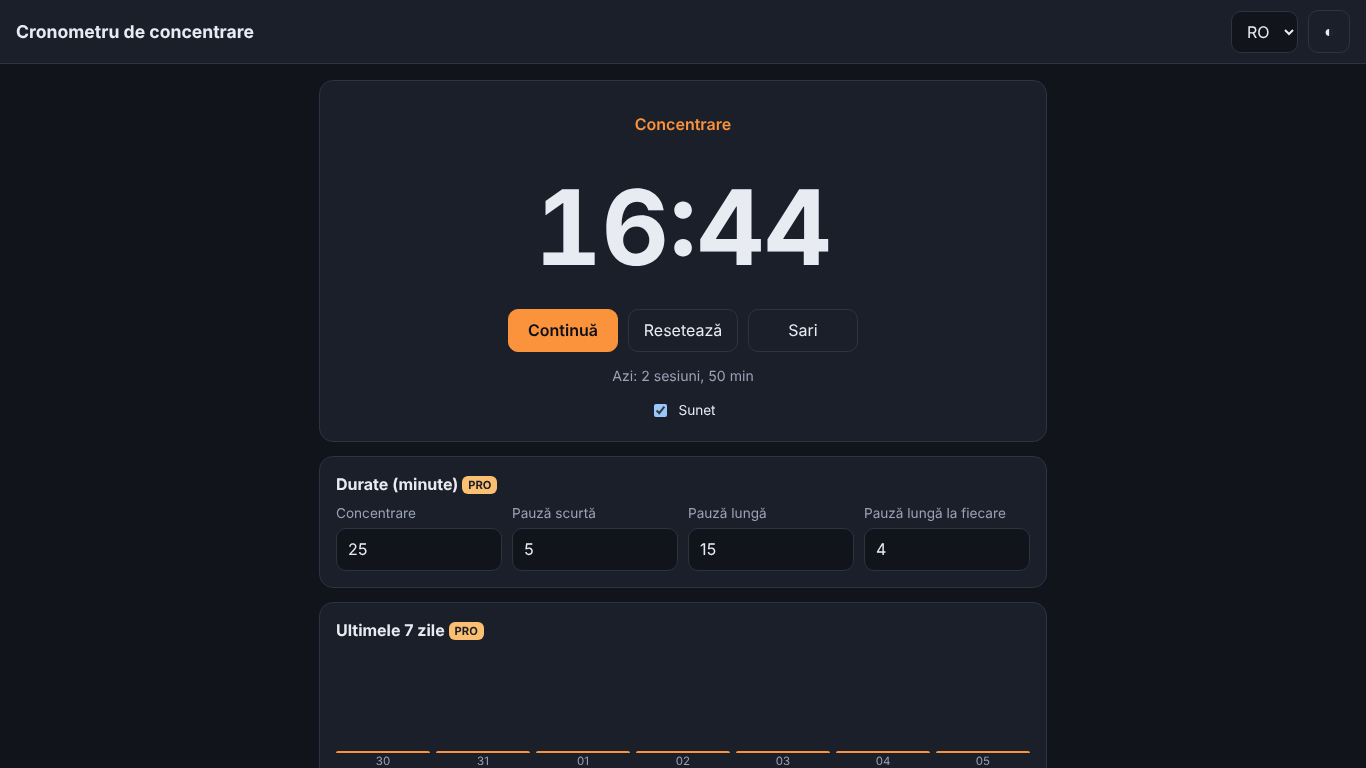
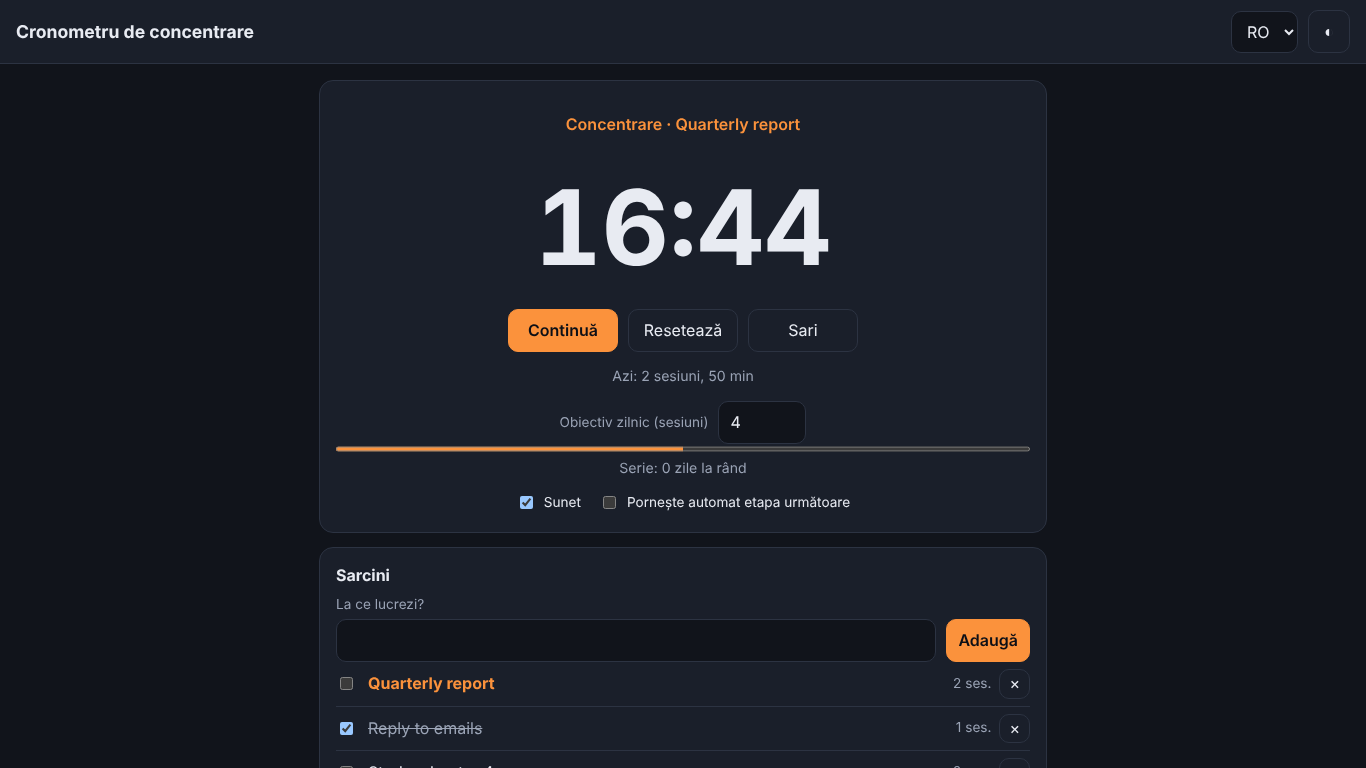
Stelar Focus Timer: tasks, auto-start, ambient noise
Free: task list (current task shown with the phase, finished focus sessions
counted per task, remove done) and optional auto-start of the next phase.
Pro: ambient white/pink/brown noise generated with Web Audio during running
focus sessions, with volume, and tasks CSV export (formula-safe).
Unit + e2e tests, store what's new texts, regenerated focus screenshots.

Claude-Session: https://claude.ai/code/session_01YQDvpoPGKtNh935CpkWmt1

diff --git a/focus/app.js b/focus/app.js
@@ -2,9 +2,9 @@
   'use strict';
   const SKU = 'pro';
   const DICT = {
-    ro: { appName: 'Cronometru de concentrare', start: 'Start', pause: 'Pauză', resume: 'Continuă', reset: 'Resetează', skip: 'Sari', sound: 'Sunet', settings: 'Durate (minute)', work: 'Concentrare', short: 'Pauză scurtă', long: 'Pauză lungă', every: 'Pauză lungă la fiecare', stats: 'Ultimele 7 zile', csv: 'Exportă CSV', proPitch: 'Durate personalizate, statistici pe 7 zile și export CSV.', today: 'Azi: {n} sesiuni, {m} min', goal: 'Obiectiv zilnic (sesiuni)', streak: 'Serie: {n} zile la rând', goalDone: 'Obiectivul de azi e atins!', doneWork: 'Sesiune încheiată. Ia o pauză.', doneBreak: 'Pauza s-a terminat. Înapoi la treabă.' },
-    en: { appName: 'Focus Timer – Pomodoro', start: 'Start', pause: 'Pause', resume: 'Resume', reset: 'Reset', skip: 'Skip', sound: 'Sound', settings: 'Durations (minutes)', work: 'Focus', short: 'Short break', long: 'Long break', every: 'Long break every', stats: 'Last 7 days', csv: 'Export CSV', proPitch: 'Custom durations, 7-day statistics and CSV export.', today: 'Today: {n} sessions, {m} min', goal: 'Daily goal (sessions)', streak: 'Streak: {n} days in a row', goalDone: 'Today\'s goal reached!', doneWork: 'Session done. Take a break.', doneBreak: 'Break is over. Back to work.' },
-    ru: { appName: 'Таймер фокуса – Помодоро', start: 'Старт', pause: 'Пауза', resume: 'Продолжить', reset: 'Сброс', skip: 'Пропустить', sound: 'Звук', settings: 'Длительность (минуты)', work: 'Фокус', short: 'Короткий перерыв', long: 'Длинный перерыв', every: 'Длинный перерыв каждые', stats: 'Последние 7 дней', csv: 'Экспорт CSV', proPitch: 'Свои длительности, статистика за 7 дней и экспорт CSV.', today: 'Сегодня: {n} сессий, {m} мин', goal: 'Цель на день (сессии)', streak: 'Серия: {n} дн. подряд', goalDone: 'Цель на сегодня выполнена!', doneWork: 'Сессия завершена. Отдохните.', doneBreak: 'Перерыв окончен. За работу.' }
+    ro: { appName: 'Cronometru de concentrare', start: 'Start', pause: 'Pauză', resume: 'Continuă', reset: 'Resetează', skip: 'Sari', sound: 'Sunet', settings: 'Durate (minute)', work: 'Concentrare', short: 'Pauză scurtă', long: 'Pauză lungă', every: 'Pauză lungă la fiecare', stats: 'Ultimele 7 zile', csv: 'Exportă CSV', proPitch: 'Durate personalizate, sunete ambientale în timpul concentrării, statistici pe 7 zile și export CSV al statisticilor și sarcinilor.', autoStart: 'Pornește automat etapa următoare', tasks: 'Sarcini', taskLabel: 'La ce lucrezi?', add: 'Adaugă', tasksHint: 'Atinge o sarcină ca s-o faci curentă: fiecare sesiune de concentrare încheiată se numără la ea.', clearDone: 'Șterge cele terminate', tasksCsv: 'Exportă sarcinile CSV', del: 'Șterge', taskDone: 'Terminată', sessionsN: '{n} ses.', ambient: 'Sunet ambiental', ambKind: 'Zgomot în timpul concentrării', ambOff: 'Oprit', ambWhite: 'Zgomot alb', ambPink: 'Zgomot roz (ca ploaia)', ambBrown: 'Zgomot maro (vuiet adânc)', ambVol: 'Volum', ambHint: 'Se aude doar cât rulează o sesiune de concentrare și se oprește în pauze. Generat pe dispozitiv, fără fișiere.', today: 'Azi: {n} sesiuni, {m} min', goal: 'Obiectiv zilnic (sesiuni)', streak: 'Serie: {n} zile la rând', goalDone: 'Obiectivul de azi e atins!', doneWork: 'Sesiune încheiată. Ia o pauză.', doneBreak: 'Pauza s-a terminat. Înapoi la treabă.' },
+    en: { appName: 'Focus Timer – Pomodoro', start: 'Start', pause: 'Pause', resume: 'Resume', reset: 'Reset', skip: 'Skip', sound: 'Sound', settings: 'Durations (minutes)', work: 'Focus', short: 'Short break', long: 'Long break', every: 'Long break every', stats: 'Last 7 days', csv: 'Export CSV', proPitch: 'Custom durations, ambient sounds while you focus, 7-day statistics and CSV export of statistics and tasks.', autoStart: 'Start next phase automatically', tasks: 'Tasks', taskLabel: 'What are you working on?', add: 'Add', tasksHint: 'Tap a task to make it current: each finished focus session is counted on it.', clearDone: 'Remove done', tasksCsv: 'Export tasks CSV', del: 'Delete', taskDone: 'Done', sessionsN: '{n} sess.', ambient: 'Ambient sound', ambKind: 'Noise while you focus', ambOff: 'Off', ambWhite: 'White noise', ambPink: 'Pink noise (rain-like)', ambBrown: 'Brown noise (deep rumble)', ambVol: 'Volume', ambHint: 'Plays only while a focus session is running and stops on breaks. Generated on your device, no files.', today: 'Today: {n} sessions, {m} min', goal: 'Daily goal (sessions)', streak: 'Streak: {n} days in a row', goalDone: 'Today\'s goal reached!', doneWork: 'Session done. Take a break.', doneBreak: 'Break is over. Back to work.' },
+    ru: { appName: 'Таймер фокуса – Помодоро', start: 'Старт', pause: 'Пауза', resume: 'Продолжить', reset: 'Сброс', skip: 'Пропустить', sound: 'Звук', settings: 'Длительность (минуты)', work: 'Фокус', short: 'Короткий перерыв', long: 'Длинный перерыв', every: 'Длинный перерыв каждые', stats: 'Последние 7 дней', csv: 'Экспорт CSV', proPitch: 'Свои длительности, фоновые звуки во время фокуса, статистика за 7 дней и экспорт статистики и задач в CSV.', autoStart: 'Автоматически запускать следующий этап', tasks: 'Задачи', taskLabel: 'Над чем вы работаете?', add: 'Добавить', tasksHint: 'Нажмите на задачу, чтобы сделать её текущей: каждая завершённая сессия фокуса засчитывается ей.', clearDone: 'Удалить выполненные', tasksCsv: 'Экспорт задач в CSV', del: 'Удалить', taskDone: 'Выполнено', sessionsN: '{n} сес.', ambient: 'Фоновый звук', ambKind: 'Шум во время фокуса', ambOff: 'Выкл.', ambWhite: 'Белый шум', ambPink: 'Розовый шум (как дождь)', ambBrown: 'Коричневый шум (низкий гул)', ambVol: 'Громкость', ambHint: 'Звучит только во время сессии фокуса и выключается на перерывах. Создаётся на устройстве, без файлов.', today: 'Сегодня: {n} сессий, {m} мин', goal: 'Цель на день (сессии)', streak: 'Серия: {n} дн. подряд', goalDone: 'Цель на сегодня выполнена!', doneWork: 'Сессия завершена. Отдохните.', doneBreak: 'Перерыв окончен. За работу.' }
   };
   const $ = id => document.getElementById(id);
   const load = (k, d) => { try { const v = JSON.parse(Core.store(k)); return v == null ? d : v; } catch (e) { return d; } };
@@ -14,6 +14,11 @@
   let cfg = Focus.sanitize(load('cfg', Focus.DEFAULT_CFG));
   let stats = load('stats', {});
   let goal = Focus.sanitizeGoal(load('goal', Focus.GOAL_DEFAULT));
+  let tasks = Focus.sanitizeTasks(load('tasks', []));
+  let curTask = load('curTask', null);
+  let ambient = Object.assign({ kind: 'off', vol: 40 }, load('ambient', {}));
+  if (!Focus.NOISES.includes(ambient.kind)) ambient.kind = 'off';
+  ambient.vol = Math.min(100, Math.max(0, Math.round(Number(ambient.vol)) || 0));
   let st = load('state', null) || { phase: 'work', workDone: 0, endAt: null, remaining: null };
   const activeCfg = () => (isPro ? cfg : Focus.DEFAULT_CFG);
   if (st.remaining == null) st.remaining = Focus.durationSec(st.phase, activeCfg());
@@ -43,10 +48,13 @@
     if (was === 'work' && counted) {
       st.workDone += 1;
       stats = record(stats);
+      const cur = currentTask();
+      if (cur) { tasks = Focus.creditTask(tasks, cur.id); save('tasks', tasks); }
     }
     st.phase = Focus.nextPhase(was, st.workDone, activeCfg());
     st.endAt = null;
     st.remaining = Focus.durationSec(st.phase, activeCfg());
+    if (counted && $('autoStart').checked) st.endAt = Date.now() + st.remaining * 1000;
     save('state', st);
     if (counted) { beep(); notify(Core.t(was === 'work' ? 'doneWork' : 'doneBreak')); }
     render();
@@ -56,10 +64,63 @@
     save('stats', out); return out;
   }
 
+  function currentTask() { return tasks.find(t => t.id === curTask && !t.done) || null; }
+
+  /* Ambient noise (Pro): a looped buffer generated with Web Audio, only during a running focus phase. */
+  let audio = null;
+  function syncAmbient() {
+    const kind = isPro ? ambient.kind : 'off';
+    const want = kind !== 'off' && !!st.endAt && st.phase === 'work';
+    try {
+      if (!want) {
+        if (audio && audio.src) { audio.src.stop(); audio.src = null; }
+        document.body.dataset.ambient = '';
+        return;
+      }
+      if (!audio) audio = { ctx: new (window.AudioContext || window.webkitAudioContext)(), src: null, gain: null, kind: null };
+      const vol = (ambient.vol / 100) * 0.5;
+      if (audio.src && audio.kind === kind) { audio.gain.gain.value = vol; return; }
+      if (audio.src) audio.src.stop();
+      const ctx = audio.ctx;
+      const buf = ctx.createBuffer(1, ctx.sampleRate * 4, ctx.sampleRate);
+      Focus.fillNoise(kind, buf.getChannelData(0));
+      const src = ctx.createBufferSource(); src.buffer = buf; src.loop = true;
+      const g = ctx.createGain(); g.gain.value = vol;
+      src.connect(g); g.connect(ctx.destination); src.start();
+      if (ctx.state === 'suspended') ctx.resume().catch(() => {});
+      Object.assign(audio, { src, gain: g, kind });
+      document.body.dataset.ambient = kind;
+    } catch (e) { /* no audio */ }
+  }
+
+  function renderTasks() {
+    const ul = $('tasks'); ul.innerHTML = '';
+    tasks.forEach(t => {
+      const li = document.createElement('li');
+      li.className = (t.done ? 'done' : '') + (t.id === curTask && !t.done ? ' current' : '');
+      const cb = document.createElement('input'); cb.type = 'checkbox'; cb.checked = t.done; cb.setAttribute('aria-label', Core.t('taskDone'));
+      cb.addEventListener('change', () => { tasks = Focus.toggleTask(tasks, t.id); save('tasks', tasks); render(); });
+      const name = document.createElement('button'); name.className = 'name'; name.textContent = t.text;
+      name.setAttribute('aria-pressed', String(t.id === curTask && !t.done));
+      name.addEventListener('click', () => { if (t.done) return; curTask = curTask === t.id ? null : t.id; save('curTask', curTask); render(); });
+      const n = document.createElement('span'); n.className = 'n'; n.textContent = Core.t('sessionsN', { n: t.pomos });
+      const del = document.createElement('button'); del.className = 'del'; del.textContent = '×'; del.setAttribute('aria-label', Core.t('del'));
+      del.addEventListener('click', () => { tasks = Focus.removeTask(tasks, t.id); save('tasks', tasks); render(); });
+      li.append(cb, name, n, del); ul.appendChild(li);
+    });
+    $('clearDone').disabled = !tasks.some(t => t.done);
+    $('tasksCsv').disabled = !isPro || !tasks.length;
+  }
+
   function render() {
     const r = remaining();
     $('clock').textContent = Focus.fmt(r);
-    $('phase').textContent = Core.t(st.phase);
+    const cur = currentTask();
+    $('phase').textContent = Core.t(st.phase) + (st.phase === 'work' && cur ? ' · ' + cur.text : '');
+    renderTasks();
+    $('ambKind').disabled = $('ambVol').disabled = !isPro;
+    $('ambKind').value = ambient.kind; $('ambVol').value = ambient.vol;
+    syncAmbient();
     $('start').textContent = Core.t(st.endAt ? 'pause' : (r < Focus.durationSec(st.phase, activeCfg()) ? 'resume' : 'start'));
     document.title = (st.endAt ? Focus.fmt(r) + ' · ' : '') + Core.t('appName');
     const today = stats[Focus.dayKey(Date.now())] || { sessions: 0, minutes: 0 };
@@ -106,11 +167,28 @@
     save('state', st); render();
   }));
   $('goal').addEventListener('change', () => { goal = Focus.sanitizeGoal($('goal').value); save('goal', goal); render(); });
-  $('csv').addEventListener('click', () => {
-    const blob = new Blob([Focus.toCSV(stats)], { type: 'text/csv' });
-    const a = document.createElement('a'); a.href = URL.createObjectURL(blob); a.download = 'focus-stats.csv'; a.click();
+  function download(text, file) {
+    const blob = new Blob([text], { type: 'text/csv' });
+    const a = document.createElement('a'); a.href = URL.createObjectURL(blob); a.download = file; a.click();
     setTimeout(() => URL.revokeObjectURL(a.href), 1000);
+  }
+  $('csv').addEventListener('click', () => download(Focus.toCSV(stats), 'focus-stats.csv'));
+  $('tasksCsv').addEventListener('click', () => { if (isPro) download(Focus.tasksCSV(tasks, activeCfg().work), 'focus-tasks.csv'); });
+  $('taskForm').addEventListener('submit', e => {
+    e.preventDefault();
+    const before = tasks.length;
+    tasks = Focus.addTask(tasks, $('taskText').value, Date.now().toString(36) + Math.random().toString(36).slice(2, 6));
+    if (tasks.length > before) {
+      if (!currentTask()) { curTask = tasks[tasks.length - 1].id; save('curTask', curTask); }
+      save('tasks', tasks); $('taskText').value = '';
+    }
+    render();
   });
+  $('clearDone').addEventListener('click', () => { tasks = Focus.clearDone(tasks); save('tasks', tasks); render(); });
+  $('autoStart').checked = load('autoStart', false) === true;
+  $('autoStart').addEventListener('change', () => save('autoStart', $('autoStart').checked));
+  $('ambKind').addEventListener('change', () => { ambient.kind = Focus.NOISES.includes($('ambKind').value) ? $('ambKind').value : 'off'; save('ambient', ambient); render(); });
+  $('ambVol').addEventListener('input', () => { ambient.vol = Number($('ambVol').value); save('ambient', ambient); syncAmbient(); });
   if (st.endAt && remaining() <= 0) finish(true);
   render();
   setInterval(tick, 250);

diff --git a/focus/index.html b/focus/index.html
@@ -24,6 +24,13 @@
   progress#goalBar { display: block; width: 100%; height: 10px; accent-color: var(--accent); }
   .bars { display: flex; gap: 6px; align-items: end; height: 120px; padding-top: 8px; }
   .bars div { flex: 1; display: flex; flex-direction: column; align-items: center; justify-content: end; height: 100%; font-size: .72rem; color: var(--muted); }
+  .tasks li { align-items: center; }
+  .tasks li input[type=checkbox] { width: auto; flex: 0 0 auto; }
+  .tasks .name { flex: 1; text-align: left; border: none; background: none; padding: 4px; min-width: 0; overflow-wrap: anywhere; }
+  .tasks li.current .name { font-weight: 700; color: var(--accent); }
+  .tasks li.done .name { text-decoration: line-through; color: var(--muted); }
+  .tasks .n { color: var(--muted); font-size: .85rem; white-space: nowrap; }
+  .tasks .del { padding: 2px 9px; }
   .bars span.b { width: 100%; background: var(--accent); border-radius: 6px 6px 0 0; min-height: 2px; }
 </style>
 </head>
@@ -48,7 +55,23 @@
     <div class="goal"><label for="goal" data-i18n="goal">Daily goal (sessions)</label><input id="goal" type="number" min="1" max="16"></div>
     <progress id="goalBar" value="0" max="4" aria-labelledby="streak"></progress>
     <p class="muted" style="text-align:center;margin-top:4px" id="streak"></p>
-    <label style="display:flex;gap:8px;align-items:center;justify-content:center;color:var(--text)"><input type="checkbox" id="sound" style="width:auto" checked> <span data-i18n="sound">Sound</span></label>
+    <div style="display:flex;gap:18px;justify-content:center;flex-wrap:wrap">
+      <label style="display:flex;gap:8px;align-items:center;color:var(--text)"><input type="checkbox" id="sound" style="width:auto" checked> <span data-i18n="sound">Sound</span></label>
+      <label style="display:flex;gap:8px;align-items:center;color:var(--text)"><input type="checkbox" id="autoStart" style="width:auto"> <span data-i18n="autoStart">Start next phase automatically</span></label>
+    </div>
+  </section>
+  <section class="card">
+    <h2 style="font-size:1rem;margin:0 0 8px" data-i18n="tasks">Tasks</h2>
+    <form class="row" id="taskForm">
+      <div style="flex:1 1 200px"><label for="taskText" data-i18n="taskLabel">What are you working on?</label><input id="taskText" maxlength="120" autocomplete="off"></div>
+      <div style="flex:0 0 auto"><button class="primary" id="taskAdd" type="submit" data-i18n="add">Add</button></div>
+    </form>
+    <ul class="plain tasks" id="tasks"></ul>
+    <p class="muted" id="tasksHint" data-i18n="tasksHint">Tap a task to make it current: each finished focus session is counted on it.</p>
+    <div class="controls" style="justify-content:flex-start">
+      <button id="clearDone" data-i18n="clearDone">Remove done</button>
+      <button id="tasksCsv"><span data-i18n="tasksCsv">Export tasks CSV</span> <span class="pro-badge">PRO</span></button>
+    </div>
   </section>
   <section class="card">
     <h2 style="font-size:1rem;margin:0 0 8px"><span data-i18n="settings">Durations (minutes)</span> <span class="pro-badge">PRO</span></h2>
@@ -60,13 +83,22 @@
     </div>
   </section>
   <section class="card">
+    <h2 style="font-size:1rem;margin:0 0 8px"><span data-i18n="ambient">Ambient sound</span> <span class="pro-badge">PRO</span></h2>
+    <div class="row">
+      <div><label for="ambKind" data-i18n="ambKind">Noise while you focus</label>
+        <select id="ambKind"><option value="off" data-i18n="ambOff">Off</option><option value="white" data-i18n="ambWhite">White noise</option><option value="pink" data-i18n="ambPink">Pink noise (rain-like)</option><option value="brown" data-i18n="ambBrown">Brown noise (deep rumble)</option></select></div>
+      <div><label for="ambVol" data-i18n="ambVol">Volume</label><input id="ambVol" type="range" min="0" max="100" step="5"></div>
+    </div>
+    <p class="muted" data-i18n="ambHint">Plays only while a focus session is running and stops on breaks. Generated on your device, no files.</p>
+  </section>
+  <section class="card">
     <h2 style="font-size:1rem;margin:0 0 8px"><span data-i18n="stats">Last 7 days</span> <span class="pro-badge">PRO</span></h2>
     <div class="bars" id="bars"></div>
     <p><button id="csv" data-i18n="csv">Export CSV</button></p>
   </section>
   <section class="card pro-box hidden" id="proBox">
     <h2 style="font-size:1rem;margin:0 0 6px" data-i18n="proTitle">Pro version</h2>
-    <p class="muted" data-i18n="proPitch">Custom durations, 7-day statistics and CSV export.</p>
+    <p class="muted" data-i18n="proPitch">Custom durations, ambient sounds while you focus, 7-day statistics and CSV export of statistics and tasks.</p>
     <button class="primary" id="proBuy" data-i18n="proBuy">Unlock Pro</button>
     <p class="muted" id="proStatus"></p>
   </section>

diff --git a/focus/logic.js b/focus/logic.js
@@ -73,7 +73,57 @@
     return ['date,sessions,minutes'].concat(rows).join('\n') + '\n';
   }
 
-  const api = { DEFAULT_CFG, LIMITS, GOAL_DEFAULT, GOAL_LIMITS, sanitize, sanitizeGoal, streak, nextPhase, durationSec, fmt, dayKey, record, lastDays, toCSV };
+  /* Tasks: [{ id, text, done, pomos }]. Pure helpers that return new arrays. */
+  const TASK_MAX = 50, TASK_LEN = 120;
+  function addTask(tasks, text, id) {
+    const t = String(text || '').replace(/\s+/g, ' ').trim().slice(0, TASK_LEN);
+    if (!t || tasks.length >= TASK_MAX) return tasks;
+    return tasks.concat([{ id: String(id), text: t, done: false, pomos: 0 }]);
+  }
+  function toggleTask(tasks, id) { return tasks.map(t => t.id === id ? Object.assign({}, t, { done: !t.done }) : t); }
+  function removeTask(tasks, id) { return tasks.filter(t => t.id !== id); }
+  function clearDone(tasks) { return tasks.filter(t => !t.done); }
+  function creditTask(tasks, id) { return tasks.map(t => t.id === id ? Object.assign({}, t, { pomos: t.pomos + 1 }) : t); }
+  function sanitizeTasks(list) {
+    if (!Array.isArray(list)) return [];
+    return list.filter(t => t && typeof t.text === 'string' && t.id != null).slice(0, TASK_MAX)
+      .map(t => ({ id: String(t.id), text: t.text.slice(0, TASK_LEN), done: !!t.done, pomos: Math.max(0, Math.round(Number(t.pomos)) || 0) }));
+  }
+  function csvCell(v) {
+    let s = String(v);
+    if (/^[=+\-@\t\r]/.test(s)) s = "'" + s;
+    return /[",\n\r]/.test(s) ? '"' + s.replace(/"/g, '""') + '"' : s;
+  }
+  function tasksCSV(tasks, minutesPerSession) {
+    const rows = tasks.map(t => [csvCell(t.text), t.done ? 'yes' : 'no', t.pomos, t.pomos * (minutesPerSession || 25)].join(','));
+    return ['task,done,sessions,minutes'].concat(rows).join('\n') + '\n';
+  }
+
+  /* Ambient noise samples in [-1, 1]. white: flat; pink: Paul Kellet's filter (-3 dB/octave);
+     brown: leaky integration of white noise (-6 dB/octave). `rand` returns [0, 1). */
+  const NOISES = ['white', 'pink', 'brown'];
+  function fillNoise(kind, out, rand) {
+    rand = rand || Math.random;
+    let b0 = 0, b1 = 0, b2 = 0, b3 = 0, b4 = 0, b5 = 0, b6 = 0, last = 0;
+    for (let i = 0; i < out.length; i++) {
+      const w = rand() * 2 - 1;
+      let v;
+      if (kind === 'pink') {
+        b0 = 0.99886 * b0 + w * 0.0555179; b1 = 0.99332 * b1 + w * 0.0750759; b2 = 0.96900 * b2 + w * 0.1538520;
+        b3 = 0.86650 * b3 + w * 0.3104856; b4 = 0.55000 * b4 + w * 0.5329522; b5 = -0.7616 * b5 - w * 0.0168980;
+        v = (b0 + b1 + b2 + b3 + b4 + b5 + b6 + w * 0.5362) * 0.11; b6 = w * 0.115926;
+      } else if (kind === 'brown') {
+        last = (last + 0.02 * w) / 1.02; v = last * 3.5;
+      } else v = w;
+      out[i] = v;
+    }
+    /* Remove the drift between the last and first sample so a looped buffer has no click. */
+    const n = out.length, drift = n > 1 ? out[n - 1] - out[0] : 0;
+    for (let i = 0; i < n; i++) out[i] = Math.max(-1, Math.min(1, out[i] - drift * i / (n - 1)));
+    return out;
+  }
+
+  const api = { TASK_MAX, TASK_LEN, addTask, toggleTask, removeTask, clearDone, creditTask, sanitizeTasks, tasksCSV, NOISES, fillNoise, DEFAULT_CFG, LIMITS, GOAL_DEFAULT, GOAL_LIMITS, sanitize, sanitizeGoal, streak, nextPhase, durationSec, fmt, dayKey, record, lastDays, toCSV };
   if (typeof module !== 'undefined' && module.exports) module.exports = api;
   else global.Focus = api;
 })(typeof window !== 'undefined' ? window : globalThis);

diff --git a/tests/e2e.js b/tests/e2e.js
@@ -271,6 +271,50 @@ async function newPage(browser, base, opts = {}) {
     await ctx.close();
   });
 
+  await check('focus v1.2: tasks and auto-start (free), ambient noise and tasks CSV (Pro)', async () => {
+    let { ctx, page } = await newPage(browser, base);
+    await page.clock.install({ time: new Date('2026-11-04T10:00:00') });
+    await page.goto(base + 'focus/');
+    await page.fill('#taskText', 'Write report'); await page.press('#taskText', 'Enter');
+    await page.fill('#taskText', 'Read, "notes"'); await page.click('#taskAdd');
+    assert.equal(await page.locator('#tasks li').count(), 2);
+    assert.equal(await page.textContent('#phase'), 'Focus · Write report');
+    await page.check('#autoStart');
+    await page.click('#start');
+    await page.clock.runFor(25 * 60 * 1000 + 500);
+    assert.equal(await page.textContent('#phase'), 'Short break');
+    assert.equal(await page.textContent('#start'), 'Pause', 'break should auto-start');
+    assert.match(await page.textContent('#tasks li:first-child'), /1 sess\./);
+    await page.click('#tasks li:nth-child(2) .name');
+    await page.check('#tasks li:first-child input');
+    await page.click('#clearDone');
+    assert.equal(await page.locator('#tasks li').count(), 1);
+    assert.ok(await page.isDisabled('#tasksCsv'));
+    assert.ok(await page.isDisabled('#ambKind'));
+    await page.reload();
+    assert.ok(await page.isChecked('#autoStart'));
+    assert.match(await page.textContent('#tasks'), /Read, "notes"/);
+    assert.deepEqual(page.errors, []);
+    await ctx.close();
+    ({ ctx, page } = await newPage(browser, base, { pro: true }));
+    await page.clock.install({ time: new Date('2026-11-04T10:00:00') });
+    await page.goto(base + 'focus/');
+    await page.waitForFunction(() => !document.getElementById('ambKind').disabled);
+    await page.fill('#taskText', '=SUM(A1)'); await page.press('#taskText', 'Enter');
+    await page.selectOption('#ambKind', 'brown');
+    assert.equal(await page.evaluate(() => document.body.dataset.ambient), '');
+    await page.click('#start');
+    assert.equal(await page.evaluate(() => document.body.dataset.ambient), 'brown');
+    await page.click('#start');
+    assert.equal(await page.evaluate(() => document.body.dataset.ambient), '');
+    const [dl] = await Promise.all([page.waitForEvent('download'), page.click('#tasksCsv')]);
+    assert.equal(fs.readFileSync(await dl.path(), 'utf8'), "task,done,sessions,minutes\n'=SUM(A1),no,0,0\n");
+    await page.reload();
+    assert.equal(await page.inputValue('#ambKind'), 'brown');
+    assert.deepEqual(page.errors, []);
+    await ctx.close();
+  });
+
   await check('text: stats, operations and undo', async () => {
     const { ctx, page } = await newPage(browser, base);
     await page.goto(base + 'text/');

diff --git a/tests/unit.test.js b/tests/unit.test.js
@@ -366,3 +366,35 @@ test('converter v1.2: number bases, new units (free); pace and data rate (Pro)',
   assert.equal(U.categories(false).includes('pace'), false);
   assert.equal(U.categories(false).includes('datarate'), false);
 });
+
+test('focus v1.2: tasks (free), noise generator and tasks CSV (Pro)', () => {
+  let t = F.addTask([], '  Write   report ', 'a');
+  t = F.addTask(t, '', 'x');
+  t = F.addTask(t, 'Read, "notes"', 'b');
+  assert.deepEqual(t.map(x => x.text), ['Write report', 'Read, "notes"']);
+  assert.equal(F.addTask([], 'x'.repeat(500), 'c')[0].text.length, F.TASK_LEN);
+  let many = [];
+  for (let i = 0; i < 60; i++) many = F.addTask(many, 't' + i, i);
+  assert.equal(many.length, F.TASK_MAX);
+  t = F.creditTask(F.creditTask(t, 'a'), 'a');
+  assert.equal(t[0].pomos, 2);
+  t = F.toggleTask(t, 'b');
+  assert.equal(t[1].done, true);
+  assert.equal(F.tasksCSV(t, 25), 'task,done,sessions,minutes\nWrite report,no,2,50\n"Read, ""notes""",yes,0,0\n');
+  assert.equal(F.tasksCSV(F.addTask([], '=1+1', 'z')), "task,done,sessions,minutes\n'=1+1,no,0,0\n");
+  assert.deepEqual(F.clearDone(t).map(x => x.id), ['a']);
+  assert.deepEqual(F.removeTask(t, 'a').map(x => x.id), ['b']);
+  assert.deepEqual(F.sanitizeTasks([{ id: 1, text: 'ok', pomos: '3' }, null, { text: 5 }]), [{ id: '1', text: 'ok', done: false, pomos: 3 }]);
+  assert.deepEqual(F.sanitizeTasks('nope'), []);
+  let seed = 1;
+  const rand = () => { seed = (seed * 16807) % 2147483647; return seed / 2147483647; };
+  const roughness = a => { let d = 0; for (let i = 1; i < a.length; i++) d += Math.abs(a[i] - a[i - 1]); return d / a.length; };
+  const r = {};
+  for (const k of F.NOISES) {
+    const a = F.fillNoise(k, new Float32Array(20000), rand);
+    assert.ok(a.every(v => v >= -1 && v <= 1), k);
+    assert.ok(Math.abs(a[a.length - 1] - a[0]) < 1e-6, k + ' loops without a jump');
+    r[k] = roughness(a);
+  }
+  assert.ok(r.white > r.pink && r.pink > r.brown, JSON.stringify(r));
+});

diff --git a/tools/screenshots.js b/tools/screenshots.js
@@ -10,7 +10,9 @@ const TYPES = { '.html': 'text/html', '.js': 'text/javascript', '.css': 'text/cs
 const SAMPLE = {
   convertor: { cat: 'length' },
   focus: {
-    state: JSON.stringify({ phase: 'work', workDone: 2, endAt: null, remaining: 1004 })
+    state: JSON.stringify({ phase: 'work', workDone: 2, endAt: null, remaining: 1004 }),
+    tasks: JSON.stringify([{ id: 'a', text: 'Quarterly report', done: false, pomos: 2 }, { id: 'b', text: 'Reply to emails', done: true, pomos: 1 }, { id: 'c', text: 'Study: chapter 4', done: false, pomos: 0 }]),
+    curTask: JSON.stringify('a')
   },
   days: { daysCd: JSON.stringify([{ name: 'New Year', date: '2027-01-01' }, { name: 'Vacation', date: '2027-07-15' }]), daysHol: '2026-12-25\n2027-01-01' },
   pct: { pctHist: JSON.stringify([{ time: '2026-11-24 10:15', calc: 'Profit 40 · margin 40% · markup 66.67%', result: '66.67%' }]) },

diff --git a/store/listing.md b/store/listing.md
@@ -96,6 +96,19 @@ Pro (cumpărare unică): durate proprii, grafic pe 7 zile și export CSV al stat
 • Светлая и тёмная тема, русский, английский и румынский. Без аккаунта, рекламы и слежки
 Pro (разовая покупка): свои длительности, график за 7 дней и экспорт статистики в CSV.
 
+**Update 1.2 — What's new:**
+EN: New free task list: pick the task you are working on and every finished focus session is counted on it; the next phase can now start automatically. Pro: ambient white, pink or brown noise while you focus (generated on your device) and CSV export of your tasks.
+RO: Listă de sarcini nouă, gratuită: alegi sarcina la care lucrezi și fiecare sesiune de concentrare încheiată se numără la ea; etapa următoare poate porni automat. Pro: zgomot ambiental alb, roz sau maro în timpul concentrării (generat pe dispozitiv) și export CSV al sarcinilor.
+RU: Новый бесплатный список задач: выберите текущую задачу, и каждая завершённая сессия фокуса засчитывается ей; следующий этап может запускаться автоматически. Pro: фоновый белый, розовый или коричневый шум во время фокуса (создаётся на устройстве) и экспорт задач в CSV.
+
+**Updated description lines (1.2):**
+EN: • Task list: each finished focus session is counted on the current task; optional auto-start of the next phase
+EN: Pro (one-time add-on): your own durations, ambient noise while you focus, a 7-day focus chart and CSV export of your statistics and tasks.
+RO: • Listă de sarcini: fiecare sesiune încheiată se numără la sarcina curentă; pornire automată opțională a etapei următoare
+RO: Pro (cumpărare unică): durate proprii, zgomot ambiental în timpul concentrării, grafic pe 7 zile și export CSV al statisticilor și sarcinilor.
+RU: • Список задач: каждая завершённая сессия засчитывается текущей задаче; по желанию автоматический запуск следующего этапа
+RU: Pro (разовая покупка): свои длительности, фоновый шум во время фокуса, график за 7 дней и экспорт статистики и задач в CSV.
+
 ---
 
 ## 3. Stelar Text Toolbox (`text/`)
